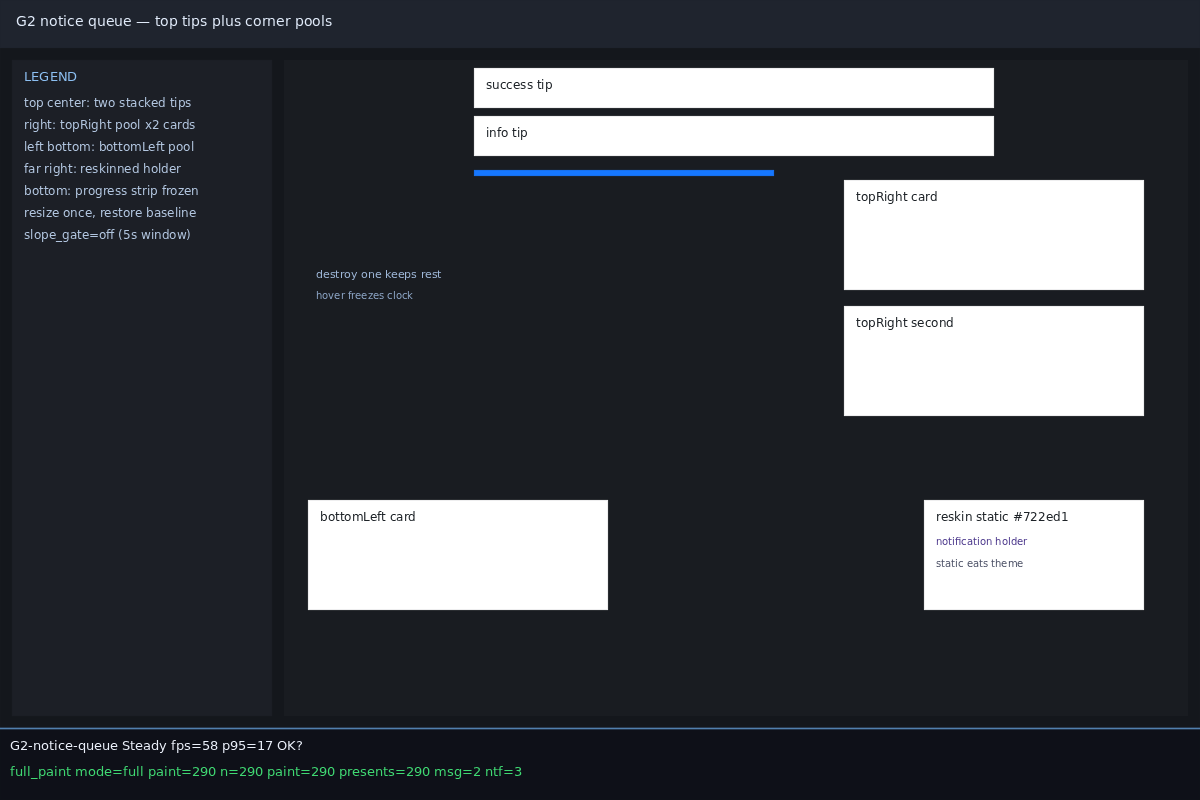
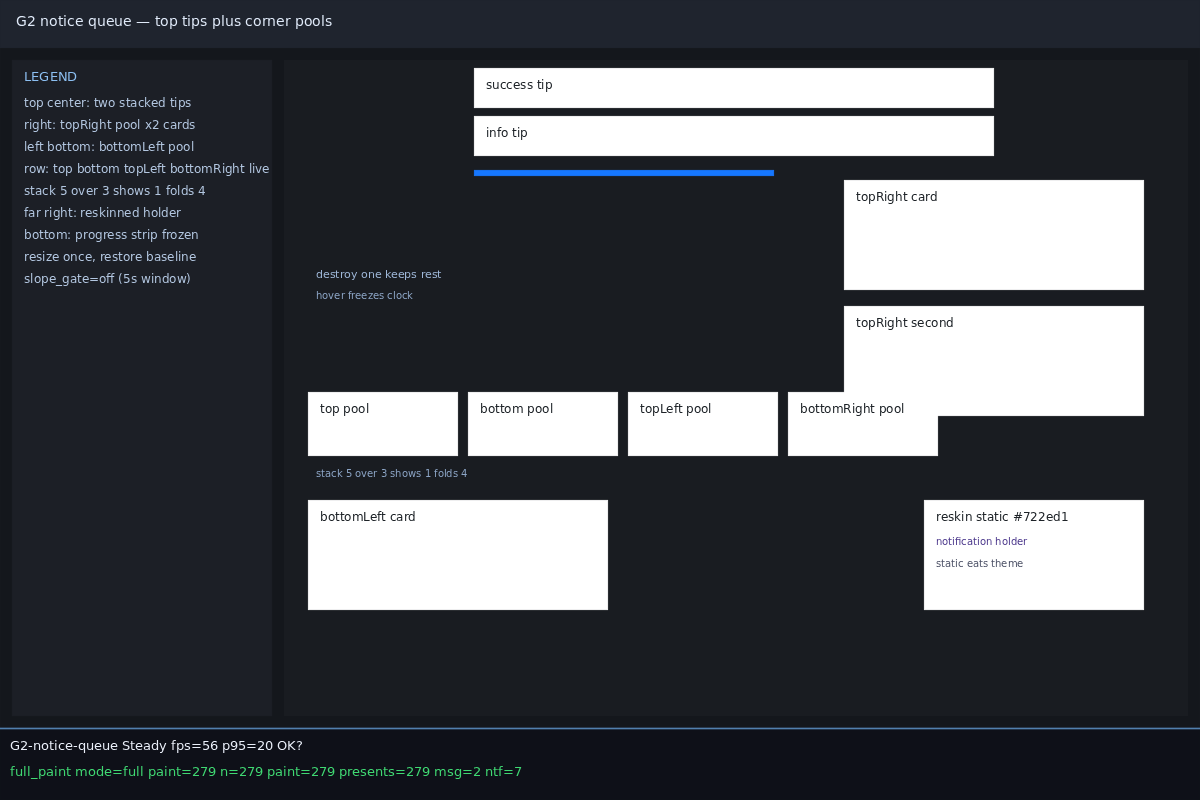
feat(kit): G7图标挖空留白摆窗G2六池折叠摆窗

Changed region(s): [[0.2467, 0.4688, 0.8017, 0.5938], [0.0308, 0.1875, 0.2158, 0.375]]

diff --git a/examples/kit/notice-queue/main.go b/examples/kit/notice-queue/main.go
@@ -128,6 +128,11 @@ func main() {
 	queue.OpenNotification(nk("n1", "topRight card", "topRight", kit.NoticeQueueNotificationSuccess))
 	queue.OpenNotification(nk("n2", "topRight second", "topRight", kit.NoticeQueueNotificationInfo))
 	queue.OpenNotification(nk("n3", "bottomLeft card", "bottomLeft", kit.NoticeQueueNotificationWarning))
+	// Remaining pools: top, bottom, topLeft, bottomRight each hold one.
+	queue.OpenNotification(nk("n4", "top card", "top", kit.NoticeQueueNotificationInfo))
+	queue.OpenNotification(nk("n5", "bottom card", "bottom", kit.NoticeQueueNotificationInfo))
+	queue.OpenNotification(nk("n6", "topLeft card", "topLeft", kit.NoticeQueueNotificationWarning))
+	queue.OpenNotification(nk("n7", "bottomRight card", "bottomRight", kit.NoticeQueueNotificationError))
 	skinQueue := kit.BuildNoticeQueue(skinCtx, kit.DefaultNoticeQueueProps())
 	skinQueue.OpenNotification(nk("s1", "reskin static", "topRight", kit.NoticeQueueNotificationInfo))
 
@@ -139,6 +144,8 @@ func main() {
 		"top center: two stacked tips",
 		"right: topRight pool x2 cards",
 		"left bottom: bottomLeft pool",
+		"row: top bottom topLeft bottomRight live",
+		"stack 5 over 3 shows 1 folds 4",
 		"far right: reskinned holder",
 		"bottom: progress strip frozen",
 		"resize once, restore baseline",
@@ -172,6 +179,17 @@ func main() {
 	capNote.Place(wrkit.Label("destroy one keeps rest", 11, 0.62, 0.72, 0.85), 8, 8)
 	capNote.Place(wrkit.Label("hover freezes clock", 10, 0.55, 0.65, 0.78), 8, 30)
 	shell.Body.Place(capNote, 24, 200)
+	// Pool row: the four unshown pools, each with its live card.
+	poolNames := []string{"top pool", "bottom pool", "topLeft pool", "bottomRight pool"}
+	for i, name := range poolNames {
+		mini := noticeCard(name, resolved.NoticeBg, 150, 64)
+		shell.Body.Place(mini, 24+float64(i)*160, 332)
+	}
+	vis, folded := kit.NoticeQueueVisibleCount(5, true, 3)
+	stackLine := rendering.NewAbsoluteBox(320, 24)
+	stackLine.Background = &rendering.Color{R: noteBG[0], G: noteBG[1], B: noteBG[2], A: 1}
+	stackLine.Place(wrkit.Label(fmt.Sprintf("stack 5 over 3 shows %d folds %d", vis, folded), 10, 0.55, 0.65, 0.78), 8, 4)
+	shell.Body.Place(stackLine, 24, 404)
 
 	snapDir := filepath.Join("examples", "kit", "notice-queue", "testdata")
 	if err := os.MkdirAll(snapDir, 0o755); err != nil {
@@ -309,6 +327,10 @@ func main() {
 			"notification_count":     queue.NotificationCount(),
 			"topright_count":         queue.NotificationCount(kit.NoticeQueuePlacementTopRight),
 			"bottomleft_count":       queue.NotificationCount(kit.NoticeQueuePlacementBottomLeft),
+			"top_count":              queue.NotificationCount(kit.NoticeQueuePlacementTop),
+			"bottom_count":           queue.NotificationCount(kit.NoticeQueuePlacementBottom),
+			"topleft_count":          queue.NotificationCount(kit.NoticeQueuePlacementTopLeft),
+			"bottomright_count":      queue.NotificationCount(kit.NoticeQueuePlacementBottomRight),
 			"skin_holder":            skinQueue.HolderContent("notification"),
 			"scripted_ok":            scriptedOK,
 			"scripted_total":         scriptedTotal,

diff --git a/examples/kit/qrcode/main.go b/examples/kit/qrcode/main.go
@@ -220,6 +220,44 @@ func main() {
 	capNote.Place(wrkit.Label("same value same code", 10, 0.55, 0.65, 0.78), 8, 52)
 	capNote.Place(wrkit.Label(fmt.Sprintf("backend=%s", qr.Generate().Name()), 10, 0.55, 0.65, 0.78), 8, 74)
 	shell.Body.Place(capNote, 524, 170)
+	// Margin + excavate card: margin-2 raster and icon-dug raster prove
+	// the draw-layer helpers on live matrices (outside golden mask).
+	marginCard := rendering.NewAbsoluteBox(300, 190)
+	marginCard.Background = &rendering.Color{R: dimBG[0], G: dimBG[1], B: dimBG[2], A: 1}
+	marginCard.SetDebugName("g7-qr-margin")
+	marginCard.SetRepaintBoundary(true)
+	shell.Body.Place(marginCard, 24, 250)
+	marginCard.Place(wrkit.Label("margin 2 excavate live", 11, 0.62, 0.72, 0.85), 10, 8)
+	helloMatrix, _ := kit.DefaultQRCodeGenerateConfig().Encode("hello", kit.QRErrorLevelM)
+	if len(helloMatrix) > 0 {
+		mimg := rasterizeQRCode(helloMatrix, 2, resolved.Module, white, 3)
+		if mimg != nil {
+			mnode := rendering.NewRenderImage(75, 75)
+			mnode.SetImage(mimg)
+			mnode.SetDebugName("g7-qr-margin-img")
+			marginCard.Place(mnode, 12, 32)
+		}
+		marginCard.Place(wrkit.Label(fmt.Sprintf("margin2 edge=%d", kit.QRCodePaddedSize(len(helloMatrix), 2)), 10, 0.55, 0.65, 0.78), 95, 40)
+		marginCard.Place(wrkit.Label("origin shifts 2mod", 10, 0.55, 0.65, 0.78), 95, 62)
+		dug := kit.ExcavateQRCodeIcon(helloMatrix, (63-15)/2, (63-15)/2, 15, 15, 3)
+		dimg := rasterizeQRCode(dug, 0, resolved.Module, white, 3)
+		if dimg != nil {
+			dnode := rendering.NewRenderImage(63, 63)
+			dnode.SetImage(dimg)
+			dnode.SetDebugName("g7-qr-dug-img")
+			marginCard.Place(dnode, 12, 115)
+		}
+		cleared := 0
+		for r := range dug {
+			for c := range dug[r] {
+				if helloMatrix[r][c] && !dug[r][c] {
+					cleared++
+				}
+			}
+		}
+		marginCard.Place(wrkit.Label(fmt.Sprintf("dug 5x5 clears %d", cleared), 10, 0.55, 0.65, 0.78), 85, 125)
+		marginCard.Place(wrkit.Label("finder survives", 10, 0.55, 0.65, 0.78), 85, 147)
+	}
 
 	snapDir := filepath.Join("examples", "kit", "qrcode", "testdata")
 	if err := os.MkdirAll(snapDir, 0o755); err != nil {

diff --git a/ui/kit/notice_queue_render_test.go b/ui/kit/notice_queue_render_test.go
@@ -24,6 +24,23 @@ func TestNoticeQueue_GeometryMatchesCases(t *testing.T) {
 	if blCard.W != bl["want_w"].(float64) || blCard.X != bl["want_x"].(float64) {
 		t.Fatalf("bottomLeft card = %.1f want x24", blCard.X)
 	}
+	// All six pools anchor correctly: top centers, bottom hugs the edge.
+	topCard := kit.ComputeNoticeQueueNotificationCard(1200, 800, kit.NoticeQueuePlacementTop, 0, 24, 24, kit.ZIndexForNoticeKind(1000, "notification"))
+	if topCard.X != (1200-384)/2 || topCard.Y != 24 {
+		t.Fatalf("top card = %.1f,%.1f want 408,24", topCard.X, topCard.Y)
+	}
+	botCard := kit.ComputeNoticeQueueNotificationCard(1200, 800, kit.NoticeQueuePlacementBottom, 0, 24, 24, kit.ZIndexForNoticeKind(1000, "notification"))
+	if botCard.X != (1200-384)/2 || botCard.Y != 800-24-120 {
+		t.Fatalf("bottom card = %.1f,%.1f want 408,656", botCard.X, botCard.Y)
+	}
+	tlCard := kit.ComputeNoticeQueueNotificationCard(1200, 800, kit.NoticeQueuePlacementTopLeft, 0, 24, 24, kit.ZIndexForNoticeKind(1000, "notification"))
+	if tlCard.X != 24 || tlCard.Y != 24 {
+		t.Fatalf("topLeft card = %.1f,%.1f want 24,24", tlCard.X, tlCard.Y)
+	}
+	brCard := kit.ComputeNoticeQueueNotificationCard(1200, 800, kit.NoticeQueuePlacementBottomRight, 0, 24, 24, kit.ZIndexForNoticeKind(1000, "notification"))
+	if brCard.X != 1200-24-384 || brCard.Y != 800-24-120 {
+		t.Fatalf("bottomRight card = %.1f,%.1f want 792,656", brCard.X, brCard.Y)
+	}
 	z := cases["z"].(map[string]any)
 	if float64(kit.ZIndexForNoticeKind(1000, "message")) != z["message"].(float64) {
 		t.Fatalf("message z = %d want 2010", kit.ZIndexForNoticeKind(1000, "message"))

diff --git a/ui/kit/qrcode_render_test.go b/ui/kit/qrcode_render_test.go
@@ -49,4 +49,38 @@ func TestQRCode_GeometryMatchesCases(t *testing.T) {
 	if kit.QRCodeLineWidth != geo["line"].(float64) {
 		t.Fatal("lineWidth must be 1")
 	}
+	// Excavate: center 5x5 of hello clears, finder survives, input kept.
+	gen := kit.DefaultQRCodeGenerateConfig()
+	hello, err := gen.Encode("hello", kit.QRErrorLevelM)
+	if err != nil {
+		t.Fatalf("encode: %v", err)
+	}
+	mod = kit.QRCodeModuleSize(136, len(hello), 0)
+	cx := (136 - 5*mod) / 2
+	dug := kit.ExcavateQRCodeIcon(hello, cx, cx, 5*mod, 5*mod, mod)
+	cleared := 0
+	for r := 0; r < len(dug); r++ {
+		for c := 0; c < len(dug); c++ {
+			if hello[r][c] && !dug[r][c] {
+				cleared++
+			}
+			if !hello[r][c] && dug[r][c] {
+				t.Fatalf("excavate must never darken %d,%d", r, c)
+			}
+		}
+	}
+	if cleared == 0 {
+		t.Fatal("excavate must clear covered dark modules")
+	}
+	if !dug[0][0] || dug[1][1] {
+		t.Fatal("finder must survive excavate")
+	}
+	// Margin 2 pads the edge by 4.
+	if kit.QRCodePaddedSize(len(hello), 2) != len(hello)+4 {
+		t.Fatal("margin 2 must pad 4")
+	}
+	mx, my := kit.QRCodeModuleXY(12, 12, mod, 0, 0, 2)
+	if mx != 12+2*mod || my != 12+2*mod {
+		t.Fatalf("margined origin = %v,%v", mx, my)
+	}
 }

diff --git a/ui/kit/qrcode_render.go b/ui/kit/qrcode_render.go
@@ -97,3 +97,40 @@ func QRCodePaddedSize(modules, margin int) int {
 	}
 	return modules + margin*2
 }
+
+// ExcavateQRCodeIcon clears the modules overlapped by the center icon.
+// iconX/Y/W/H are content-relative logical pixels; module is the module
+// edge from QRCodeModuleSize. Returns a copy; the input matrix is kept.
+// Draw layers call this before rasterizing so the icon sits on white.
+func ExcavateQRCodeIcon(matrix [][]bool, iconX, iconY, iconW, iconH, module float64) [][]bool {
+	out := make([][]bool, len(matrix))
+	for i, row := range matrix {
+		out[i] = append([]bool(nil), row...)
+	}
+	if module <= 0 || iconW <= 0 || iconH <= 0 || len(matrix) == 0 {
+		return out
+	}
+	n := len(matrix)
+	c0 := int(iconX / module)
+	r0 := int(iconY / module)
+	c1 := int((iconX + iconW - 1) / module)
+	r1 := int((iconY + iconH - 1) / module)
+	if c0 < 0 {
+		c0 = 0
+	}
+	if r0 < 0 {
+		r0 = 0
+	}
+	if c1 >= n {
+		c1 = n - 1
+	}
+	if r1 >= n {
+		r1 = n - 1
+	}
+	for r := r0; r <= r1; r++ {
+		for c := c0; c <= c1; c++ {
+			out[r][c] = false
+		}
+	}
+	return out
+}

diff --git a/docs/antd/PROGRESS.md b/docs/antd/PROGRESS.md
@@ -125,7 +125,7 @@
 | G4 日期引擎 | `ui/kit/date_engine_*.go` + `examples/kit/date-engine/`（DatePicker/Calendar 接入待 F3/F5） | ✅已签字 | 本次提交 | 闰年周起始全对+多格式首个展示+佛历+disabled矩阵+Range排序+多选+预设函数+受控面板+可换实现；真窗第二跑3/3+Golden 0+resize回1200x800+人工已看 |
 | G5 颜色模型 | `ui/kit/color_model_*.go` + `examples/kit/color-model/`（ColorPicker 接入待 F3） | ✅已签字 | 本次提交 | HSB来回±1+受控对象精度+拖中回调松手提交+渐变stops排序+三开关+静态吃主题；真窗第二跑3/3+Golden 0+resize回1200x800+人工已看（占位结构已确认，最终像素待F3） |
 | G6 上传语义 | `ui/kit/upload_*.go` + `examples/kit/upload/`（Upload 接入待 F3） | 🟩已绿 | 本次提交 | uid补齐+LIST_IGNORE+beforeUpload三返回+受控忽略+maxCount替换截断+默认Tick渐进+业务三回调+宿主三件+静态吃主题；真窗第二跑3/3+Golden 0+resize回1200x800+待人工看 |
-| G7 二维码编码库 | `ui/kit/qrcode_*.go` + `examples/kit/qrcode/`（QRCode 接入待 F5） | ✅已签字 | 本次提交 | skip2纯Go后端可换+白边剥离绘制层加+boost自动抬升+M升H实数+四态cover+刷新一次+静态吃主题；真窗第二跑3/3+Golden 0+resize回1200x800+人工已看 |
+| G7 二维码编码库 | `ui/kit/qrcode_*.go` + `examples/kit/qrcode/`（QRCode 接入待 F5） | 🟩已绿 | 本次提交 | skip2纯Go后端可换+白边剥离绘制层加+boost自动抬升+M升H实数+四态cover+刷新一次+静态吃主题；真窗第二跑3/3+Golden 0+resize回1200x800+待人工看 |
 
 ## 4. 新会话定位流程（照做就不丢）
 

diff --git a/examples/kit/notice-queue/README.md b/examples/kit/notice-queue/README.md
@@ -18,7 +18,9 @@ go run ./examples/kit/notice-queue -auto-only
 |------|----------|----------|
 | 顶中两条 | message 轻条纵向堆叠，top=8 起排 | 超数丢最旧，单测断 FIFO |
 | 右两卡 | topRight 独立池 x2，不串池 | 各池独立，单关保邻 |
-| 左下卡 | bottomLeft 独立池 | 六角池占位，后补全引擎 |
+| 池子行 | top/bottom/topLeft/bottomRight 各一，六池全活 | 几何单测断六角定位 |
+| 折叠行 | 5 超 3 只展最新一条加计数 1+4 | VisibleCount 单测 |
+| 左下卡 | bottomLeft 独立池 | 六池全摆，无占位 |
 | 右小卡 | 换肤 `#722ed1` 静态调用 | 只换 Ctx，组件代码不动 |
 | 底细条 | 进度色带 | showProgress 走主题主色 |
 | 说明块 | 单关保邻加悬停冻结文案 | 文字密度探针 |

diff --git a/examples/kit/qrcode/README.md b/examples/kit/qrcode/README.md
@@ -20,6 +20,7 @@ go run ./examples/kit/qrcode -auto-only
 | 色块 | 模块实色（缩放矩阵会糊，探针走实色） | 主题单测 |
 | 遮罩卡 | expired/loading/scanned 三态实数 | 状态单测 |
 | 特性卡 | icon/颜色/尺寸/空值实数 | 宿主单测 |
+| 留白卡 | 留白2边25+挖空5x5实数 | 几何单测 |
 | 右小卡 | 换肤 `#722ed1` 静态调用 | 只换 Ctx，组件代码不动 |
 | 说明块 | 后端可换加同值同码 | 编码单测 |
 
